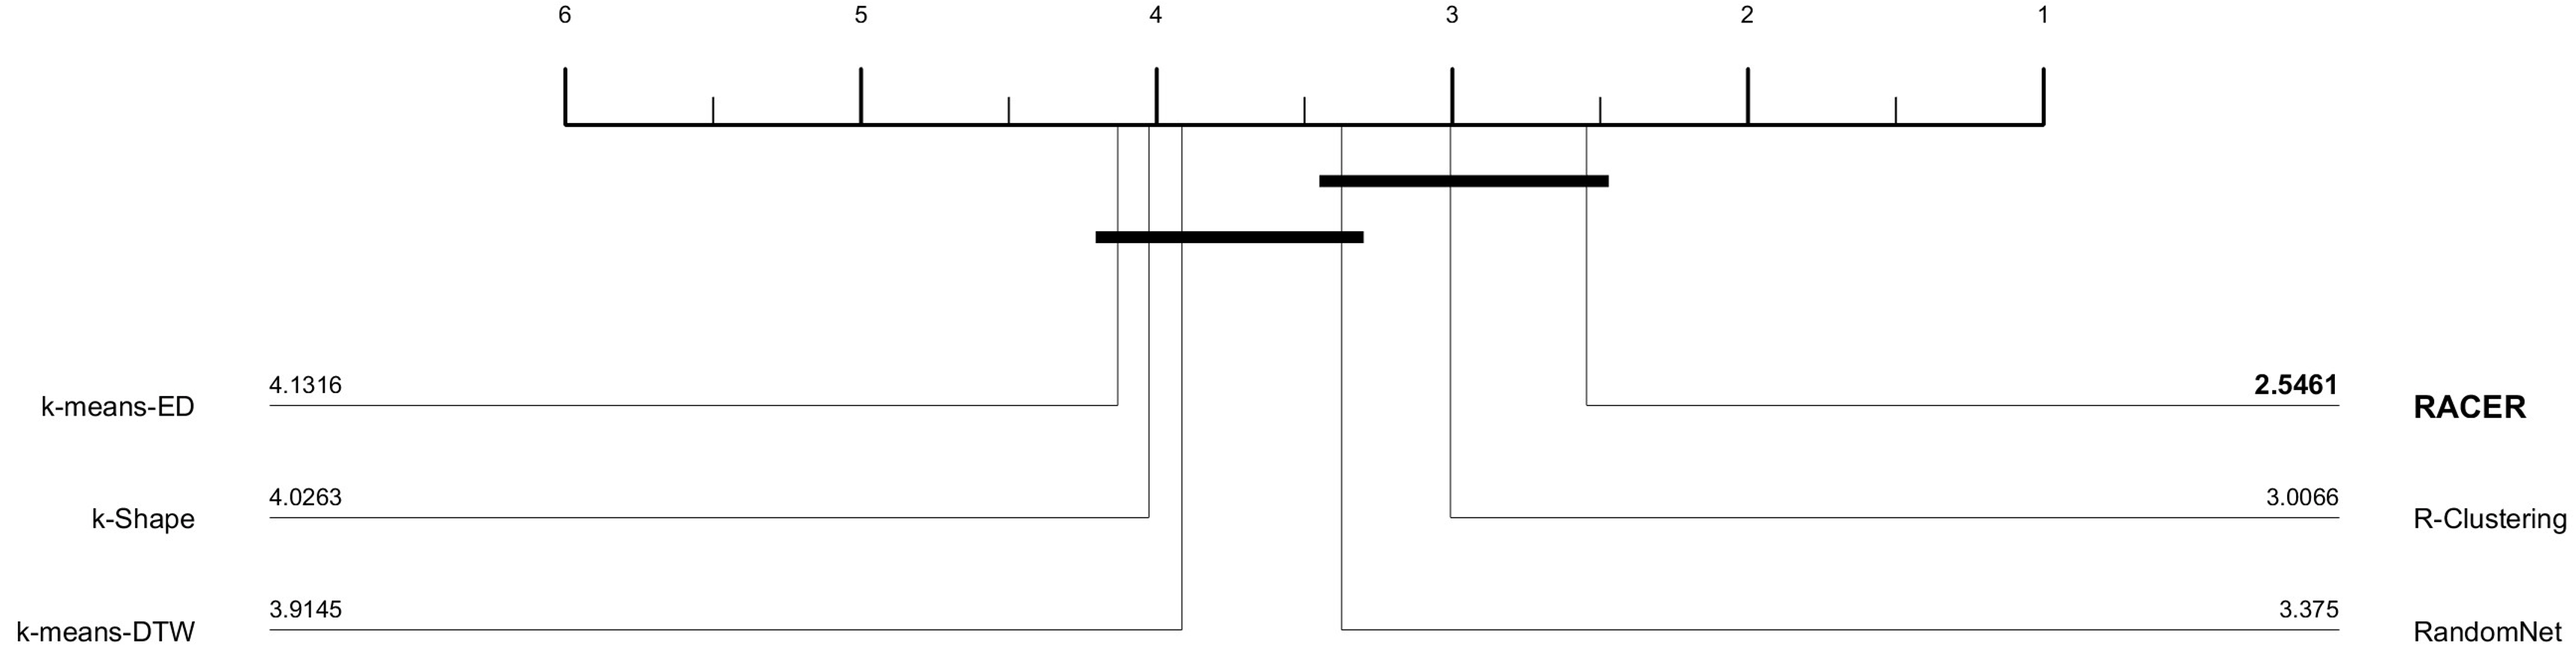
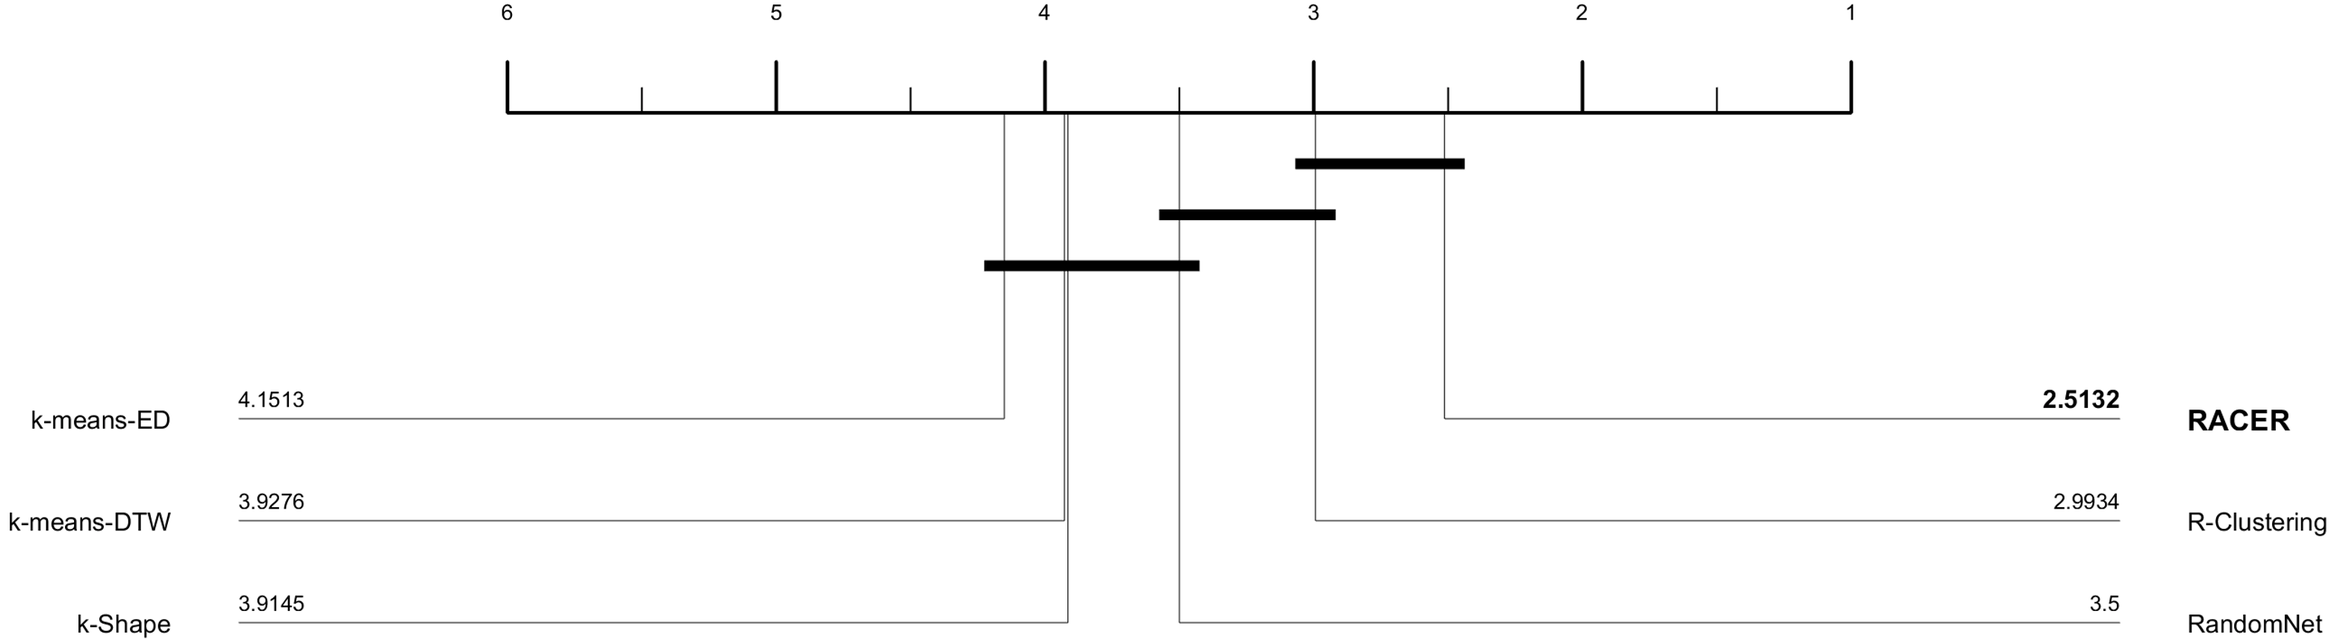
Add files via upload

diff --git a/RACER.py b/RACER.py
@@ -18,6 +18,7 @@ from numba import njit, prange, vectorize
 import pymetis
 import random
 import time
+import umap
 
 warnings.filterwarnings("ignore")
 
@@ -399,7 +400,7 @@ num_features = 500
 # Initialize a list to store the results
 results_list = []
 
-DR_method = {'pca':PCA,'TSNE':TSNE}
+DR_method = {'pca':PCA,'umap':umap}
 Classification_method = {'KMeans':KMeans,'AgglomerativeClustering':AgglomerativeClustering,'GaussianMixture':GaussianMixture}
 
 
@@ -410,9 +411,9 @@ res_dict = {'datasets':validation_datasets,
             'pca+KMeans':np.zeros([repeat_times,num_of_datasets]),
             'pca+AgglomerativeClustering':np.zeros([repeat_times,num_of_datasets]),
             'pca+GaussianMixture':np.zeros([repeat_times,num_of_datasets]),
-            'TSNE+KMeans':np.zeros([repeat_times,num_of_datasets]),
-            'TSNE+AgglomerativeClustering':np.zeros([repeat_times,num_of_datasets]),
-            'TSNE+GaussianMixture':np.zeros([repeat_times,num_of_datasets]),
+            'umap+KMeans':np.zeros([repeat_times,num_of_datasets]),
+            'umap+AgglomerativeClustering':np.zeros([repeat_times,num_of_datasets]),
+            'umap+GaussianMixture':np.zeros([repeat_times,num_of_datasets]),
             'ensemble':np.zeros([repeat_times,num_of_datasets])}
 
 for _time in range(repeat_times):
@@ -455,17 +456,17 @@ for _time in range(repeat_times):
                     res_dict[DR_name + '+' + C_name][_time,i] = score
                     print(str_info + " ARI: ", score)
                     print("\n")
-            elif DR_name == 'TSNE':
-                tsne = TSNE(n_components=3)
-                X_tsne = tsne.fit_transform(X_std)
+            elif DR_name == 'umap':
+                reducer = umap.UMAP(n_components=10, random_state=42)
+                X_umap = reducer.fit_transform(X_std)
                 for C_name,C_way in Classification_method.items():
                     str_info = DR_name + ' ' + C_name + ': '
                     if C_name=='KMeans':
-                        labels_pred = C_way(n_clusters=num_clusters, n_init=10).fit_predict(X_tsne)
+                        labels_pred = C_way(n_clusters=num_clusters, n_init=10).fit_predict(X_umap)
                     elif C_name=='AgglomerativeClustering':
-                        labels_pred = C_way(n_clusters=num_clusters).fit_predict(X_tsne)
+                        labels_pred = C_way(n_clusters=num_clusters).fit_predict(X_umap)
                     else:
-                        labels_pred = C_way(n_components=num_clusters).fit_predict(X_tsne)
+                        labels_pred = C_way(n_components=num_clusters).fit_predict(X_umap)
                     clustering_results[DR_name + '+' + C_name] = labels_pred
                     cluster_list.append(labels_pred)
                     score = metrics.adjusted_rand_score(labels_true=Y, labels_pred=labels_pred)

diff --git a/README.md b/README.md
@@ -1,5 +1,6 @@
 # RACER: Fast and Accurate Time Series Clustering with Random Convolutional Kernels and Ensemble Methods
-This repository is the official implementation of [RACER: Fast and Accurate Time Series Clustering with Random Convolutional Kernels and Ensemble Methods] (Under Review)
+This repository is the official implementation of [RACER: Fast and Accurate Time Series Clustering with Random Convolutional Kernels and Ensemble Methods], 
+submitted to ECML-PKDD 2025  (Under Review)
 
 ## The overall execution process of applying the RACER algorithm to time series clustering.
 
